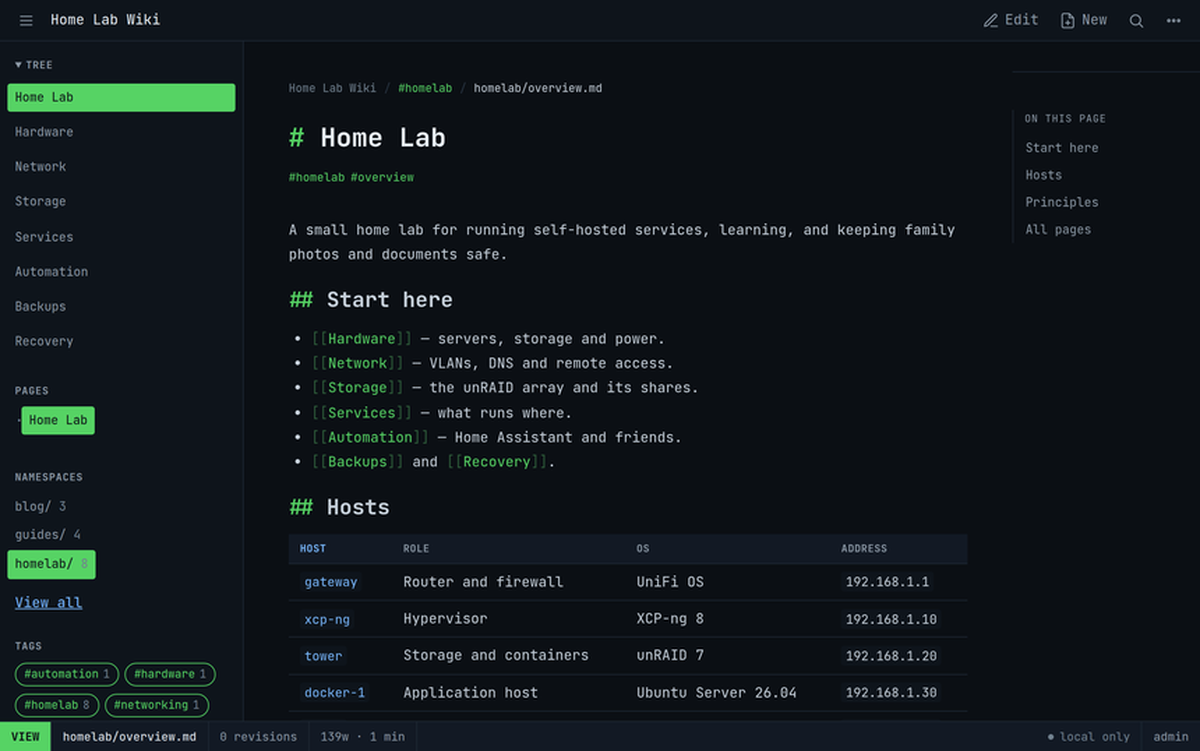
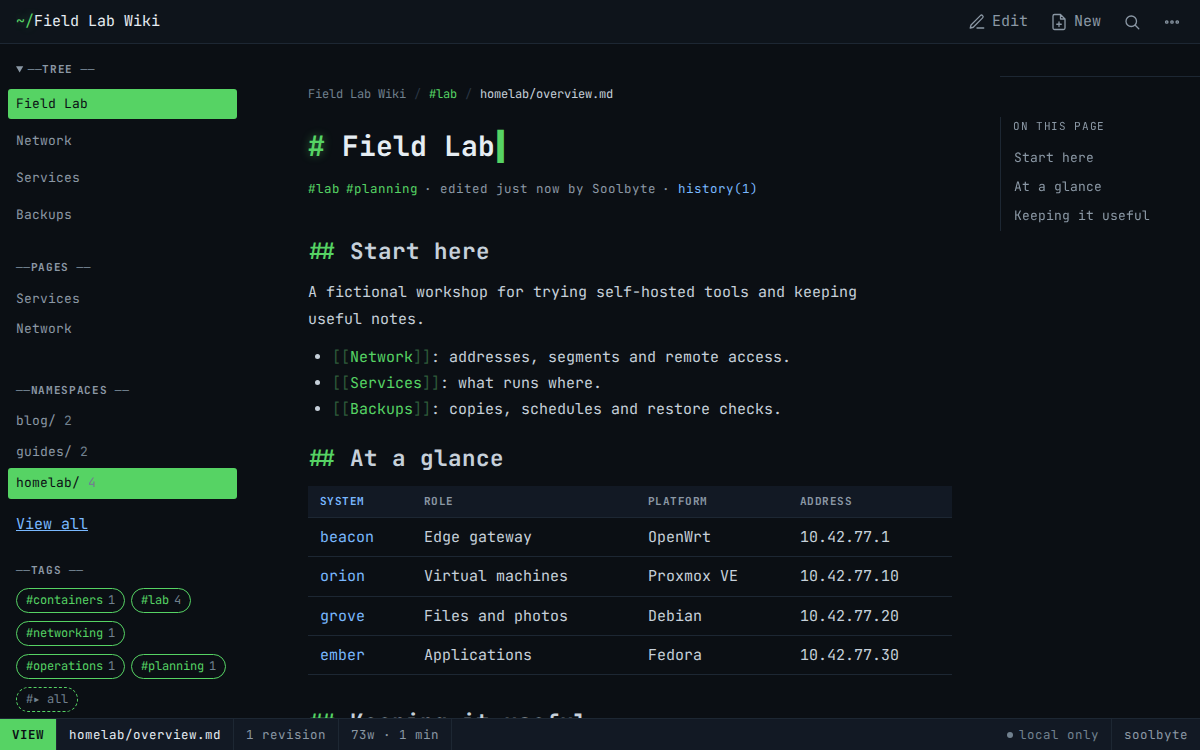
doc: readme refresh

diff --git a/README.md b/README.md
@@ -50,7 +50,7 @@ Keep `HMD_APP_DIR` on local disk (not NFS); `HMD_SERVER_REPO_DIR` can be on netw
 
 ## Screenshots
 
-<img src="docs/demo.gif" width="860" alt="HMD walkthrough: a homelab wiki landing page, a page with a Mermaid network diagram, the split-pane Markdown editor, search, namespace management, tags, and a public blog in the light newsprint skin">
+<img src="docs/demo.gif" width="860" alt="HMD walkthrough: a fictional Field Lab wiki, a Mermaid network diagram, services, the write-first Markdown editor, search, namespace settings, tags, and public notes in the light newsprint skin">
 
 More screenshots are in [`docs/screenshots/`](docs/screenshots/).
 
